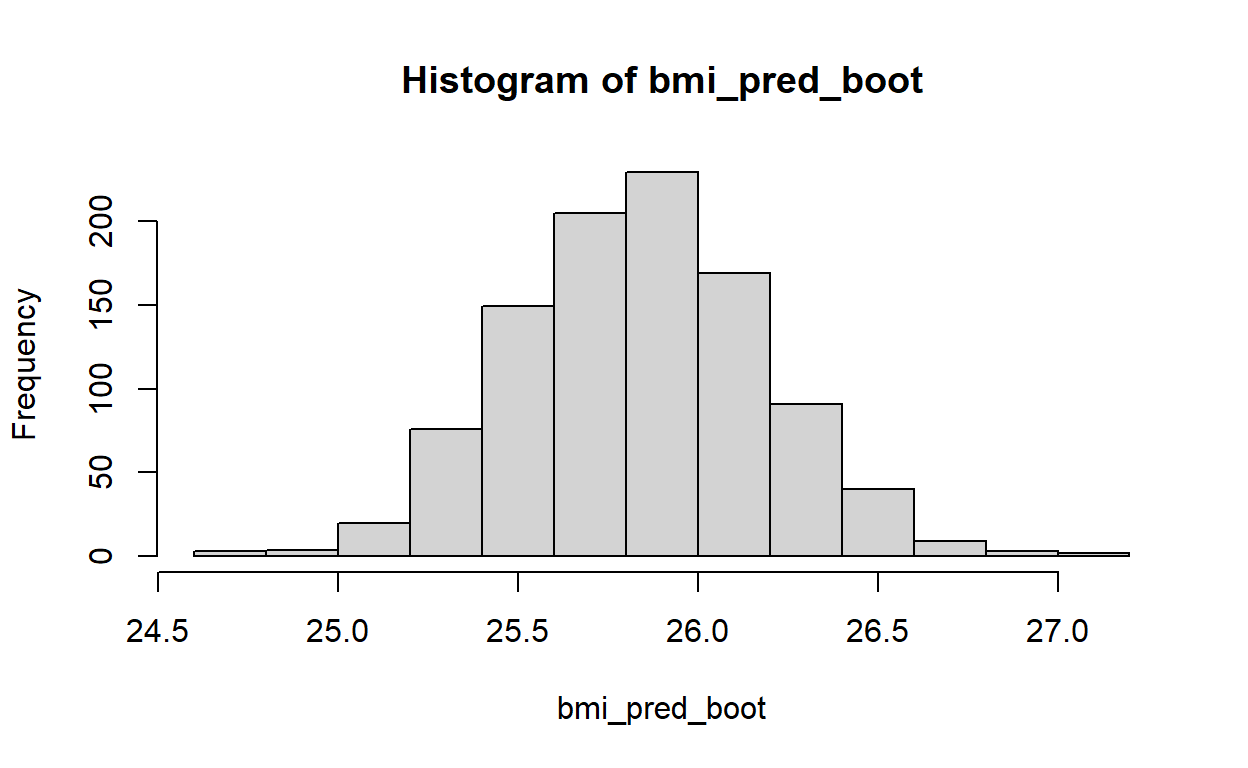
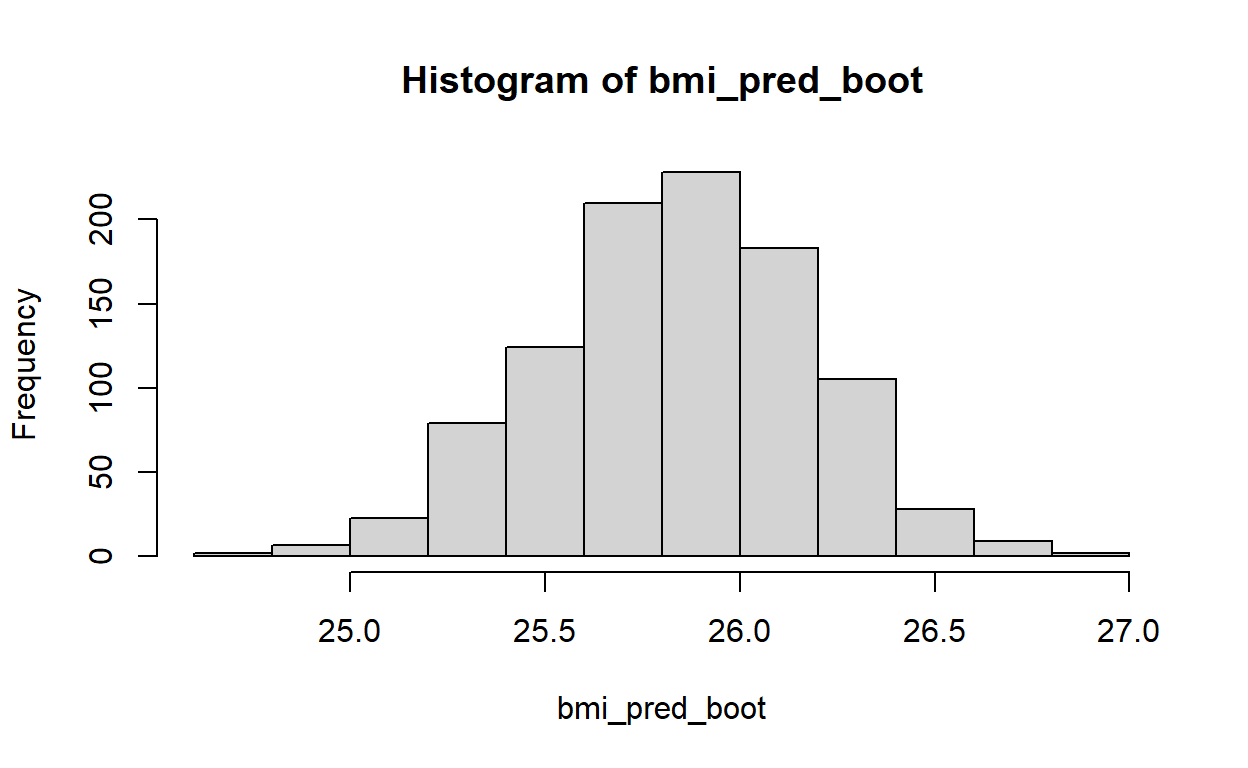
Case Study instructions
Case Study Instructions Link has been fixed

diff --git a/docs/C6_solution.html b/docs/C6_solution.html
@@ -2541,7 +2541,7 @@ C7 - R Markdown
 <span><span class='fu'>bmi_pred_funct</span><span class='op'>(</span>data_input <span class='op'>=</span> <span class='va'>SSRC_data_bootstrap</span><span class='op'>)</span></span></code></pre>
 </div>
 <pre><code>       1 
-25.81717 </code></pre>
+25.58296 </code></pre>
 </div>
 <h3 id="task-20">Task 20</h3>
 <p>Use a for loop to repeat what you did in tasks 18/19 1000 times. Store the results in a vector called <em>bmi_pred_boot</em>. Check out the <em>bmi_pred_boot</em> vector.</p>
@@ -2563,7 +2563,7 @@ C7 - R Markdown
 <span><span class='co'># Check out the vector</span></span>
 <span><span class='fu'><a href='https://rdrr.io/r/utils/head.html'>head</a></span><span class='op'>(</span><span class='va'>bmi_pred_boot</span><span class='op'>)</span></span></code></pre>
 </div>
-<pre><code>[1] 26.31356 25.72524 26.13504 25.56043 25.97360 25.95494</code></pre>
+<pre><code>[1] 25.91642 25.54024 25.79974 25.73021 25.36850 25.76113</code></pre>
 </div>
 <h3 id="task-21">Task 21</h3>
 <p>Create a histogram to analyse the distribution of <em>bmi_pred_boot</em> vector. (Just use <em>hist()</em> from the base R package)</p>
@@ -2581,18 +2581,18 @@ C7 - R Markdown
 <pre class="sourceCode r"><code class="sourceCode r"><span><span class='co'># Calculate mean</span></span>
 <span><span class='fu'><a href='https://rdrr.io/r/base/mean.html'>mean</a></span><span class='op'>(</span><span class='va'>bmi_pred_boot</span><span class='op'>)</span></span></code></pre>
 </div>
-<pre><code>[1] 25.81172</code></pre>
+<pre><code>[1] 25.80919</code></pre>
 <div class="sourceCode">
 <pre class="sourceCode r"><code class="sourceCode r"><span><span class='co'># Calculate standard deviation</span></span>
 <span><span class='fu'><a href='https://rdrr.io/r/stats/sd.html'>sd</a></span><span class='op'>(</span><span class='va'>bmi_pred_boot</span><span class='op'>)</span></span></code></pre>
 </div>
-<pre><code>[1] 0.3365023</code></pre>
+<pre><code>[1] 0.3421784</code></pre>
 <div class="sourceCode">
 <pre class="sourceCode r"><code class="sourceCode r"><span><span class='co'># Calculate quantiles</span></span>
 <span><span class='fu'><a href='https://rdrr.io/r/stats/quantile.html'>quantile</a></span><span class='op'>(</span><span class='va'>bmi_pred_boot</span>, probs <span class='op'>=</span> <span class='fu'><a href='https://rdrr.io/r/base/c.html'>c</a></span><span class='op'>(</span><span class='fl'>0.025</span>, <span class='fl'>0.975</span><span class='op'>)</span><span class='op'>)</span></span></code></pre>
 </div>
 <pre><code>    2.5%    97.5% 
-25.15011 26.45165 </code></pre>
+25.17296 26.50953 </code></pre>
 </div>
 <div class="sourceCode" id="cb20"><pre class="sourceCode r distill-force-highlighting-css"><code class="sourceCode r"></code></pre></div>
 <!--radix_placeholder_article_footer-->

diff --git a/docs/C8_case_study.html b/docs/C8_case_study.html
@@ -2230,7 +2230,7 @@ C7 - R Markdown
 <p>While solving the case study, it is absolutely legitimate to go back to the material of the preceding chapters to look up the commands needed. Sometimes it might be more efficient to google, though!</p>
 <p>A sample solution for the case study is also available. If you are stuck, you can take a look at the solution while you are working on the case study. However, this should be the very last thing to do. It is rather recommended, to compare your solution to the sample solution after completing all the tasks.</p>
 <h3 id="material">Material</h3>
-<p>To access the <strong>case study</strong>, please click here: <a href="instruction_documents/SSRC_C8_case_study.pdf">C8 - Case Study</a></p>
+<p>To access the <strong>case study</strong>, please click here: <a href="instruction_documents/SSRC_C8_Case_Study.pdf">C8 - Case Study</a></p>
 <p>To access <strong>dataset 1</strong>, please click here: <a href="data/SSRC_dataset_case_study_1.csv">Case Study Data 1</a></p>
 <p>To access <strong>dataset 2</strong>, please click here: <a href="data/SSRC_dataset_case_study_2.csv">Case Study Data 2</a></p>
 <p>To access the <strong>sample solution</strong>, please click here: <a href="C8_material/SSRC_C8_case_study_solution.html">C8 - Sample Solution</a></p>
